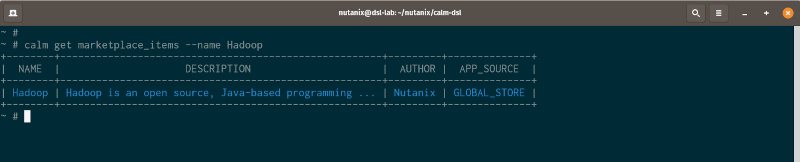
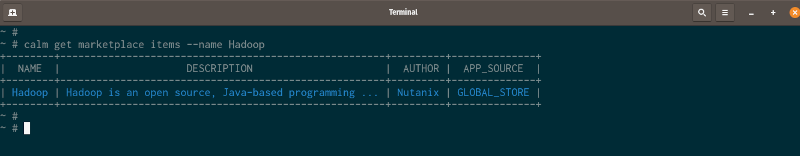
Fixes after testing

diff --git a/contents/launch.rst b/contents/launch.rst
@@ -83,7 +83,7 @@ The Calm DSL has built-in features to work with the Nutanix Calm Marketplace, on
 
    .. code-block:: bash
 
-      calm get marketplace_items
+      calm get marketplace items
 
    .. figure:: images/calm_get_marketplace_items.png
 
@@ -91,7 +91,7 @@ The Calm DSL has built-in features to work with the Nutanix Calm Marketplace, on
 
    .. code-block:: bash
 
-      calm get marketplace_items --name Hadoop
+      calm get marketplace items --name Hadoop
 
    .. figure:: images/calm_get_marketplace_items_name.png
 
